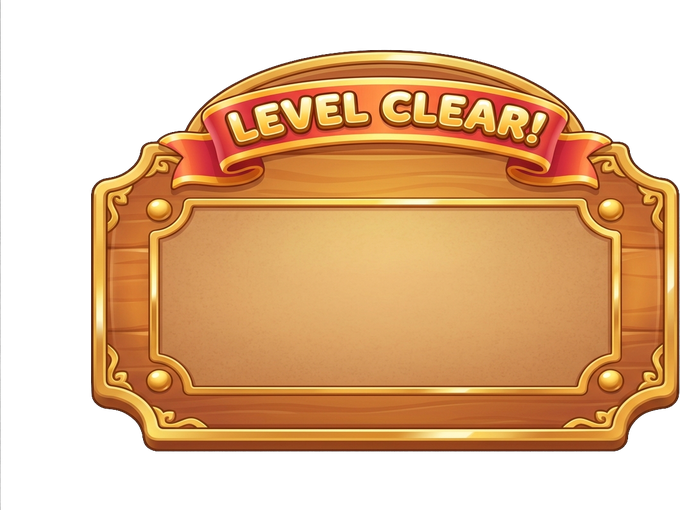
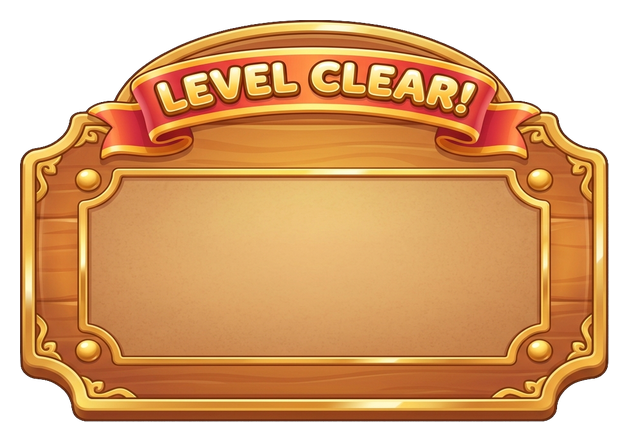
perfect make that after succes screen make it perfect

diff --git a/Assets/Scripts/Gameplay/Editor/VictoryPopupBuilder.cs b/Assets/Scripts/Gameplay/Editor/VictoryPopupBuilder.cs
@@ -88,7 +88,7 @@ namespace CutFreePets.Editor
             dimImg.color = new Color(0f, 0f, 0f, 0f);
             dimImg.raycastTarget = false;
 
-            // 4. Wooden Victory Board
+            // 4. Wooden Victory Board (Symmetrically trimmed to exact 629x442, scaled nicely for 1080x1920)
             Sprite winBoardSprite = AssetDatabase.LoadAssetAtPath<Sprite>("Assets/Art/UI/UI_Win_Board.png");
             GameObject boardObj = new GameObject("Win_Board");
             boardObj.transform.SetParent(popupRoot.transform, false);
@@ -97,7 +97,7 @@ namespace CutFreePets.Editor
             boardRect.anchorMax = new Vector2(0.5f, 0.5f);
             boardRect.pivot = new Vector2(0.5f, 0.5f);
             boardRect.anchoredPosition = new Vector2(0f, 40f);
-            boardRect.sizeDelta = new Vector2(760f, 620f); // Clean proportions for 1080x1920
+            boardRect.sizeDelta = new Vector2(740f, 520f); // Exactly matches the 629:442 aspect ratio
 
             Image boardImg = boardObj.AddComponent<Image>();
             if (winBoardSprite != null)
@@ -107,19 +107,19 @@ namespace CutFreePets.Editor
                 boardImg.preserveAspect = true;
             }
 
-            // 5. Stars Container - Perfectly Centered in the inner parchment display of the board
-            // Left socket (-148, -12), Center socket (0, 10), Right socket (148, -12)
-            // Centered horizontally around X = 0 and vertically balanced inside the inner parchment window
+            // 5. Stars Container - Centered and evenly spaced across the plate
+            // Center star at X = 0, Left star at X = -160, Right star at X = 160
+            // Vertically placed at Y = 28 (upper inner area of the plate)
             Sprite emptyStarSprite = AssetDatabase.LoadAssetAtPath<Sprite>("Assets/Art/UI/UI_Star_Empty.png");
             Sprite goldStarSprite = AssetDatabase.LoadAssetAtPath<Sprite>("Assets/Art/Environment/Star_Collectible.png");
 
             Vector2[] starPos = new Vector2[] {
-                new Vector2(-148f, -12f),
-                new Vector2(0f, 10f),
-                new Vector2(148f, -12f)
+                new Vector2(-160f, 20f),
+                new Vector2(0f, 38f),
+                new Vector2(160f, 20f)
             };
-            float[] starRot = new float[] { 8f, 0f, -8f }; // Gentle natural arch tilt
-            float[] starSizes = new float[] { 135f, 155f, 135f }; // Center star slightly prominent and grand
+            float[] starRot = new float[] { 6f, 0f, -6f }; // Gentle natural arch tilt
+            float[] starSizes = new float[] { 130f, 150f, 130f }; // Center star prominent
 
             Image[] emptyStarSockets = new Image[3];
             Image[] goldenStars = new Image[3];
@@ -155,39 +155,39 @@ namespace CutFreePets.Editor
                 goldenStars[i] = gImg;
             }
 
-            // 6. Action Buttons Container (Bottom row of board)
+            // 6. Action Buttons Container - Centered and evenly spaced across the bottom area of the plate
             Sprite btnReplaySprite = AssetDatabase.LoadAssetAtPath<Sprite>("Assets/Art/UI/UI_Btn_Replay.png");
             Sprite btnNextSprite = AssetDatabase.LoadAssetAtPath<Sprite>("Assets/Art/UI/UI_Btn_Next.png");
             Sprite btnMenuSprite = AssetDatabase.LoadAssetAtPath<Sprite>("Assets/Art/UI/UI_Btn_Menu.png");
 
-            // Replay Button (Left)
+            // Replay Button (Left, balanced at X = -160, Y = -120)
             GameObject replayBtnObj = new GameObject("Btn_Replay");
             replayBtnObj.transform.SetParent(boardObj.transform, false);
             RectTransform repRect = replayBtnObj.AddComponent<RectTransform>();
-            repRect.anchoredPosition = new Vector2(-155f, -145f);
-            repRect.sizeDelta = new Vector2(110f, 110f);
+            repRect.anchoredPosition = new Vector2(-160f, -120f);
+            repRect.sizeDelta = new Vector2(105f, 105f);
             Image repImg = replayBtnObj.AddComponent<Image>();
             repImg.sprite = btnReplaySprite;
             repImg.preserveAspect = true;
             Button repBtn = replayBtnObj.AddComponent<Button>();
 
-            // Next Level Button (Center, prominent)
+            // Next Level Button (Center, prominent at X = 0, Y = -118)
             GameObject nextBtnObj = new GameObject("Btn_Next");
             nextBtnObj.transform.SetParent(boardObj.transform, false);
             RectTransform nextRect = nextBtnObj.AddComponent<RectTransform>();
-            nextRect.anchoredPosition = new Vector2(0f, -145f);
-            nextRect.sizeDelta = new Vector2(160f, 125f);
+            nextRect.anchoredPosition = new Vector2(0f, -118f);
+            nextRect.sizeDelta = new Vector2(150f, 118f);
             Image nextImg = nextBtnObj.AddComponent<Image>();
             nextImg.sprite = btnNextSprite;
             nextImg.preserveAspect = true;
             Button nextBtn = nextBtnObj.AddComponent<Button>();
 
-            // Menu Button (Right)
+            // Menu Button (Right, balanced at X = 160, Y = -120)
             GameObject menuBtnObj = new GameObject("Btn_Menu");
             menuBtnObj.transform.SetParent(boardObj.transform, false);
             RectTransform menuRect = menuBtnObj.AddComponent<RectTransform>();
-            menuRect.anchoredPosition = new Vector2(155f, -145f);
-            menuRect.sizeDelta = new Vector2(110f, 110f);
+            menuRect.anchoredPosition = new Vector2(160f, -120f);
+            menuRect.sizeDelta = new Vector2(105f, 105f);
             Image menuImg = menuBtnObj.AddComponent<Image>();
             menuImg.sprite = btnMenuSprite;
             menuImg.preserveAspect = true;
